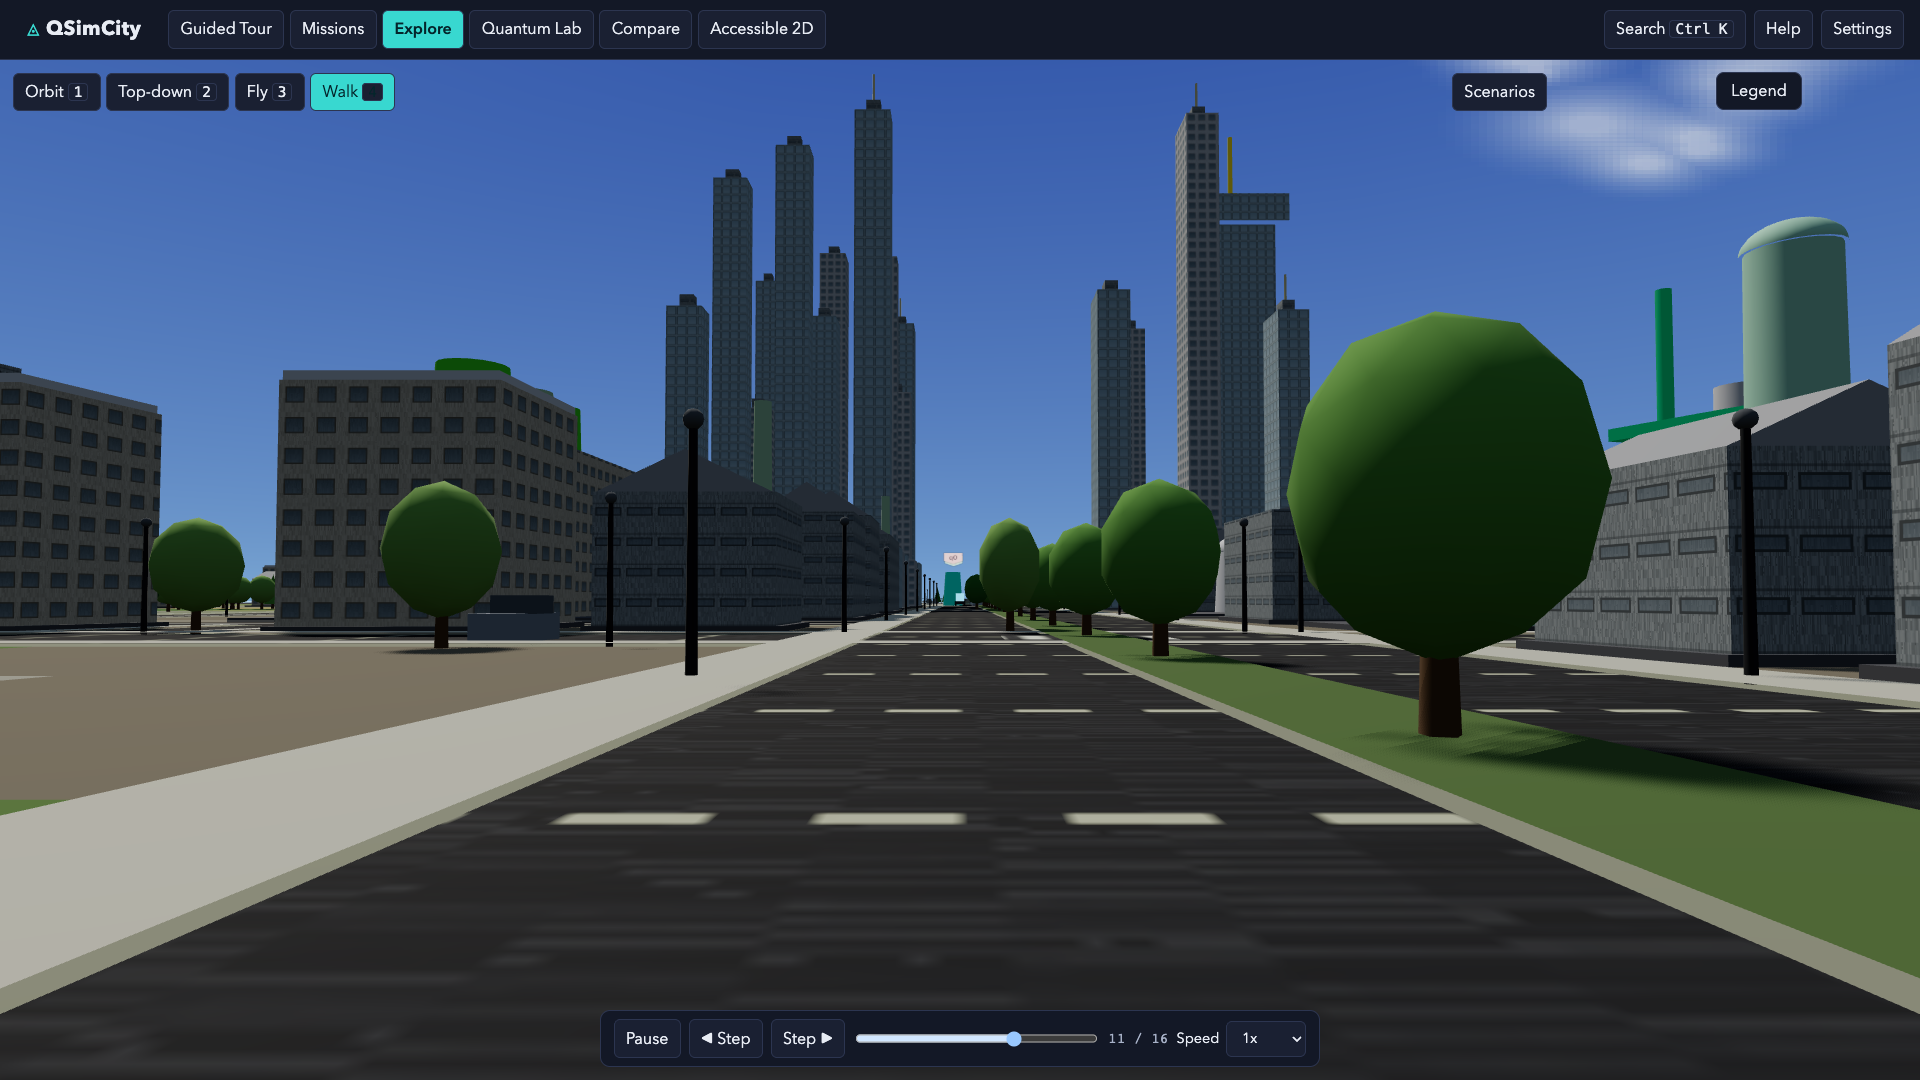
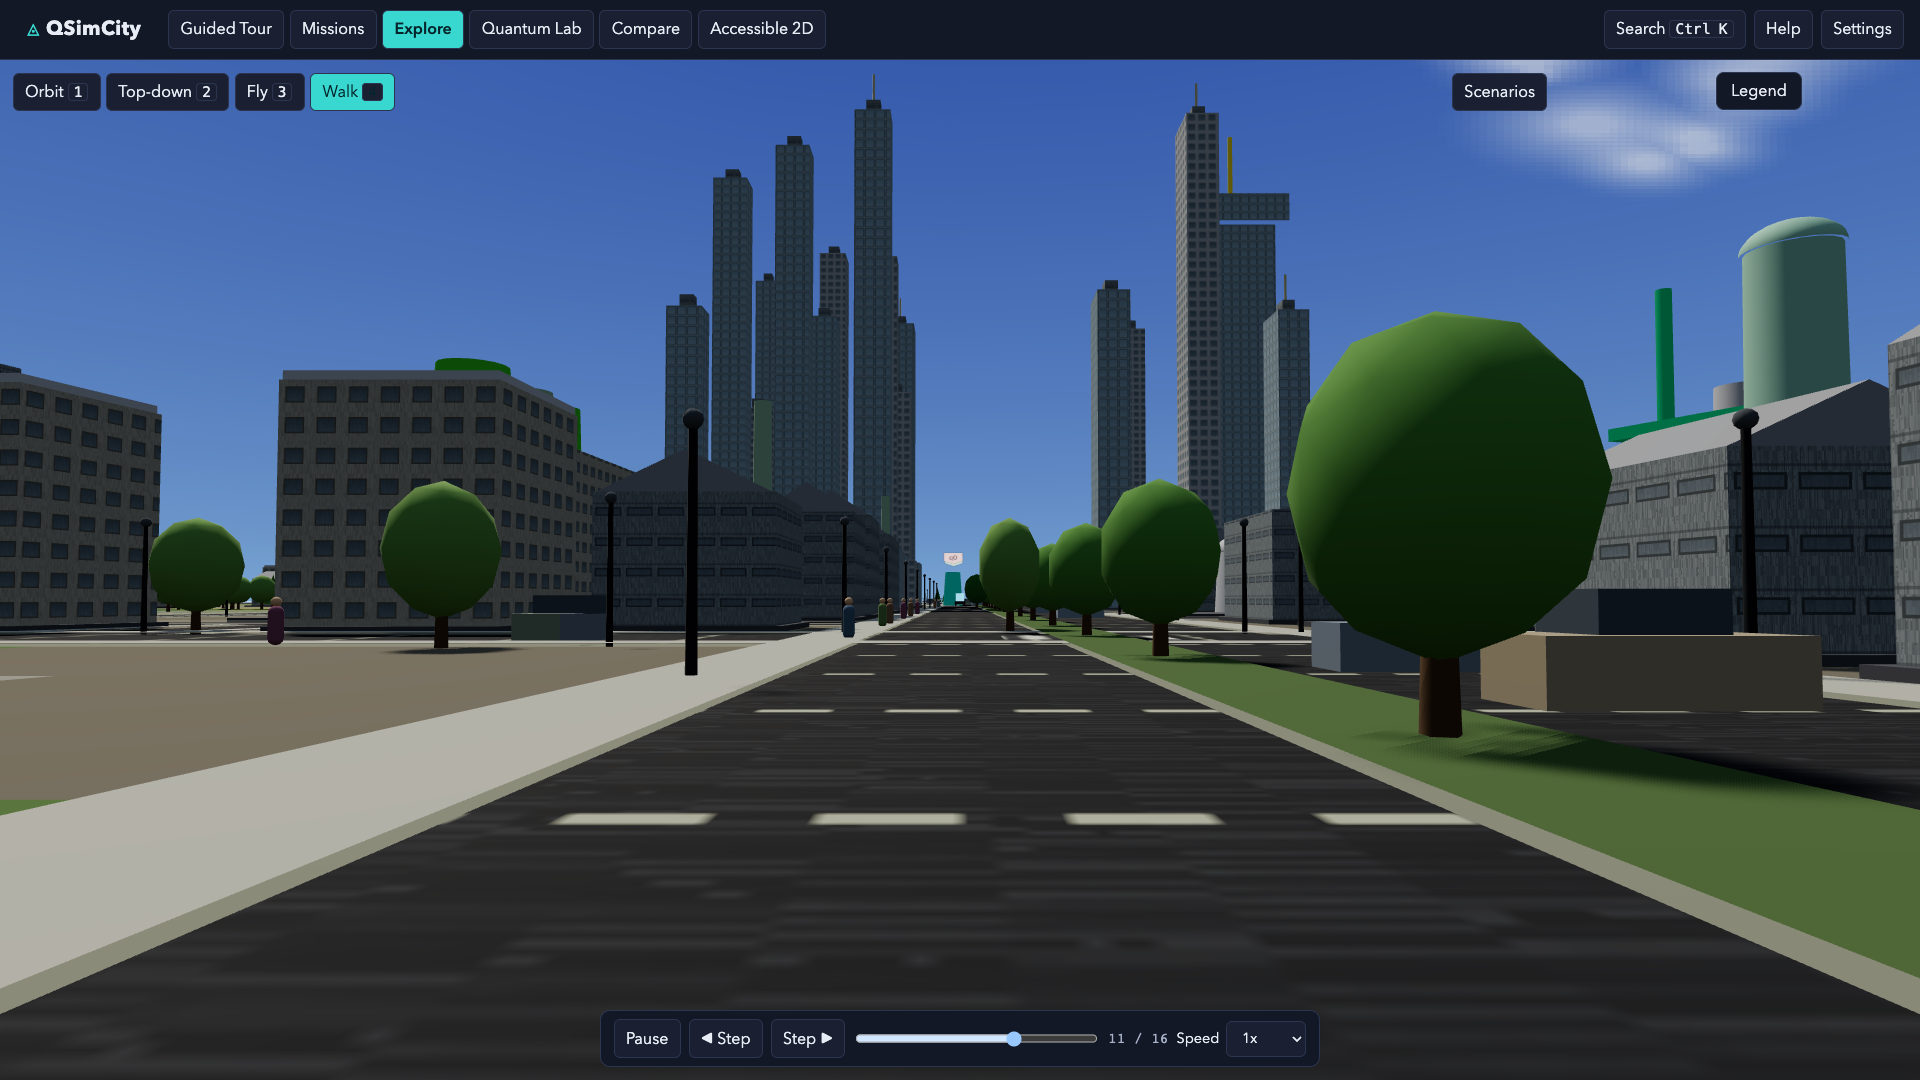
Fix the E2E harness running on software GL, and populate the streets
Two material defects the audit found.

The Playwright suite launched Chromium without GPU flags, so the 3D city
rendered through SwiftShader: measured p50 frame time 314 ms (about 3
fps) against 8 ms with the GPU enabled, which inflated every driver
interaction from ~76 ms to ~3.5 s. Under full-suite parallelism that
overran the 60 s test timeout and made the City Legend spec flaky — the
fresh-clone gate failed on it once during this audit despite the
committed evidence claiming a pass. Enabling the GPU for the Chromium
projects makes the suite deterministic (82/82 three runs in a row) and
four times faster (32 s versus two minutes), and it exercises the same
rendering path a real user gets.

Separately, none of the three ambient traffic loops touched Processing
Boulevard — the axis walk mode spawns on and the whole pipeline story
follows — so the most-viewed street in the product was empty by
construction. Two boulevard loops now carry traffic in both directions,
and a new sidewalk-stroller class paces the arterial pavements. Both are
deterministic, frozen under reduced motion, capped by instance capacity,
and listed in the City Legend as ILLUSTRATIVE with their own entry.

diff --git a/packages/world/src/agents.ts b/packages/world/src/agents.ts
@@ -209,6 +209,29 @@ const LOOP_SPECS: readonly { id: string; carCount: number; legs: readonly LoopLe
       { segmentId: 'ave-tower', from: [150, 95], to: [150, -26] },
     ],
   },
+  // Processing Boulevard is the axis the pipeline story runs along and the
+  // street walk mode spawns on, so it carries traffic in both directions:
+  // two loops whose boulevard legs overlap across the city centre.
+  {
+    id: 'blvd-west',
+    carCount: 14,
+    legs: [
+      { segmentId: 'blvd', from: [-132, 20], to: [44, 20] },
+      { segmentId: 'ave-transit', from: [44, 20], to: [44, -26] },
+      { segmentId: 'col-north', from: [44, -26], to: [-132, -26] },
+      { segmentId: 'ave-port', from: [-132, -26], to: [-132, 20] },
+    ],
+  },
+  {
+    id: 'blvd-east',
+    carCount: 14,
+    legs: [
+      { segmentId: 'blvd', from: [150, 20], to: [-14, 20] },
+      { segmentId: 'ave-exchange', from: [-14, 20], to: [-14, 95] },
+      { segmentId: 'col-south', from: [-14, 95], to: [150, 95] },
+      { segmentId: 'ave-tower', from: [150, 95], to: [150, 20] },
+    ],
+  },
 ];
 
 function buildLoop(spec: (typeof LOOP_SPECS)[number]): AmbientLoop {
@@ -403,6 +426,76 @@ export function pedestriansAt(
   }
   return pedestrians;
 }
+
+/**
+ * Sidewalk strollers: walkers that pace the arterial sidewalks so the
+ * streets a visitor actually walks down read as inhabited. Purely
+ * ILLUSTRATIVE — unlike district workers their number carries no signal at
+ * all, and like every ambient class they vanish under reduced motion.
+ *
+ * Deterministic in animTimeSeconds: each stroller owns a hashed phase and
+ * speed and shuttles along one side of one arterial, turning at the ends.
+ */
+export function strollersAt(animTimeSeconds: number, reducedMotion: boolean): PedestrianState[] {
+  if (reducedMotion) return [];
+  const strollers: PedestrianState[] = [];
+  for (const segment of ARTERIAL_SEGMENTS) {
+    const params = STROLLER_PARAMS[segment.id];
+    if (!params) continue;
+    const dx = segment.b.x - segment.a.x;
+    const dz = segment.b.z - segment.a.z;
+    const length = Math.hypot(dx, dz);
+    if (length < 1) continue;
+    const ux = dx / length;
+    const uz = dz / length;
+    // Walk the pavement just outside the carriageway, both sides.
+    const offset = segment.width / 2 + 2.2;
+    for (const walker of params) {
+      const side = walker.side;
+      const span = length - 12;
+      if (span <= 0) continue;
+      // Shuttle: a triangle wave along the segment, so walkers turn round
+      // at the ends instead of teleporting back to the start.
+      const cycle = 2 * span;
+      const travelled = (walker.phase * cycle + walker.speed * animTimeSeconds) % cycle;
+      const along = travelled <= span ? travelled : cycle - travelled;
+      const forward = travelled <= span ? 1 : -1;
+      const x = segment.a.x + ux * (6 + along) - uz * offset * side;
+      const z = segment.a.z + uz * (6 + along) + ux * offset * side;
+      strollers.push({
+        id: walker.id,
+        position: { x, z },
+        heading: Math.atan2(ux * forward, uz * forward),
+      });
+    }
+  }
+  return strollers;
+}
+
+/** Per-stroller constants, hashed once at module load (never per frame). */
+const STROLLER_PARAMS: Record<
+  string,
+  readonly { id: string; speed: number; phase: number; side: 1 | -1 }[]
+> = Object.fromEntries(
+  ARTERIAL_SEGMENTS.map((segment) => {
+    // The boulevard is the axis visitors walk, so it gets the most life;
+    // other arterials get a token few. Counts are fixed, never random.
+    const perSide = segment.id === 'blvd' ? 20 : segment.id.startsWith('col-') ? 6 : 3;
+    const walkers: { id: string; speed: number; phase: number; side: 1 | -1 }[] = [];
+    for (const side of [1, -1] as const) {
+      for (let i = 0; i < perSide; i++) {
+        const seed = `stroll:${segment.id}:${side}:${i}`;
+        walkers.push({
+          id: seed,
+          speed: 1.0 + 0.6 * hash01(`${seed}:speed`),
+          phase: hash01(`${seed}:phase`),
+          side,
+        });
+      }
+    }
+    return [segment.id, walkers];
+  }),
+);
 
 // Per-walker constants, hashed once instead of on every animation frame.
 const pedestrianParamCache = new Map<string, { id: string; speed: number; phase: number }>();

diff --git a/packages/world/test/agents.test.ts b/packages/world/test/agents.test.ts
@@ -6,6 +6,7 @@ import {
   couriersAt,
   districtActivityAt,
   pedestriansAt,
+  strollersAt,
   COURIER_JOURNEY_TICKS,
 } from '../src/agents.js';
 import { LANDMARK_SITES } from '../src/landmarks.js';
@@ -222,10 +223,11 @@ describe('ambient traffic (W3.3)', () => {
     expect(ambientVehiclesAt(12, true)).toEqual([]);
   });
 
-  it('keeps about 20 cars inside arterial road corridors at all times', () => {
+  it('keeps every ambient car inside arterial road corridors at all times', () => {
     for (const time of [0, 3.7, 42, 999.5]) {
       const cars = ambientVehiclesAt(time, false);
-      expect(cars).toHaveLength(20);
+      // Five loops: three interior rings plus both boulevard directions.
+      expect(cars).toHaveLength(48);
       for (const car of cars) {
         expect(car.kind).toBe('ambient-car');
         expect(withinSomeCorridor(car.position), `car ${car.id} at t=${time}`).toBe(true);
@@ -308,5 +310,44 @@ describe('pedestrians and district activity (W3.3)', () => {
     expect(pedestriansAt(trace, 1, 2.5, false)).toEqual(pedestriansAt(trace, 1, 2.5, false));
     expect(pedestriansAt(trace, 1, 2.5, true)).toEqual([]);
     expect(pedestriansAt(null, 1, 2.5, false)).toEqual([]);
+  });
+});
+
+describe('sidewalk strollers (W3.3)', () => {
+  it('populates every arterial pavement deterministically and pauses under reduced motion', () => {
+    const a = strollersAt(4.25, false);
+    const b = strollersAt(4.25, false);
+    expect(a.length).toBeGreaterThan(40);
+    expect(a).toEqual(b);
+    expect(strollersAt(4.25, true)).toEqual([]);
+  });
+
+  it('walks the boulevard pavements, clear of the carriageway', () => {
+    const blvd = ARTERIAL_SEGMENTS.find((s) => s.id === 'blvd')!;
+    const onBoulevard = strollersAt(6, false).filter((s) => s.id.startsWith('stroll:blvd:'));
+    expect(onBoulevard.length).toBeGreaterThanOrEqual(10);
+    for (const walker of onBoulevard) {
+      const offset = Math.abs(walker.position.z - blvd.a.z);
+      // Outside the carriageway, but still on the street, not in a block.
+      expect(offset, walker.id).toBeGreaterThan(blvd.width / 2);
+      expect(offset, walker.id).toBeLessThan(blvd.width / 2 + 6);
+      expect(walker.position.x).toBeGreaterThanOrEqual(Math.min(blvd.a.x, blvd.b.x));
+      expect(walker.position.x).toBeLessThanOrEqual(Math.max(blvd.a.x, blvd.b.x));
+    }
+  });
+
+  it('keeps walkers moving and turns them at the ends instead of teleporting', () => {
+    const t0 = strollersAt(0, false);
+    const t1 = strollersAt(1.5, false);
+    const byId = new Map(t1.map((s) => [s.id, s]));
+    for (const before of t0) {
+      const after = byId.get(before.id)!;
+      const step = Math.hypot(
+        after.position.x - before.position.x,
+        after.position.z - before.position.z,
+      );
+      // A 1.5 s step at walking pace: never a jump across the segment.
+      expect(step, before.id).toBeLessThan(6);
+    }
   });
 });

diff --git a/playwright.config.ts b/playwright.config.ts
@@ -4,6 +4,18 @@ import { defineConfig, devices } from '@playwright/test';
  * E2E configuration (spec §18.5): Chromium/Firefox/WebKit smoke matrix,
  * Chromium-based visual regression and PWA checks, mobile viewports.
  */
+
+/**
+ * Chromium renders WebGL through SwiftShader unless the GPU is explicitly
+ * enabled. Measured on this build, software rasterization puts the 3D city
+ * at a p50 frame time of 314 ms (about 3 fps), and every driver interaction
+ * inherits that: a single `click()` on the city view costs ~3.5 s of
+ * actionability protocol instead of ~76 ms. Under full-suite parallelism
+ * that inflation intermittently overran the 60 s test timeout, which is
+ * what made the City Legend spec flaky. Enabling the GPU makes the suite
+ * both deterministic and representative of what a user actually runs.
+ */
+const GPU_ARGS = ['--enable-gpu', '--ignore-gpu-blocklist', '--enable-webgl'];
 export default defineConfig({
   testDir: 'tests/e2e',
   timeout: 60_000,
@@ -32,7 +44,7 @@ export default defineConfig({
   projects: [
     {
       name: 'chromium',
-      use: { ...devices['Desktop Chrome'] },
+      use: { ...devices['Desktop Chrome'], launchOptions: { args: GPU_ARGS } },
       testIgnore: ['**/mobile.spec.ts'],
     },
     {
@@ -47,7 +59,7 @@ export default defineConfig({
     },
     {
       name: 'mobile',
-      use: { ...devices['Pixel 7'] },
+      use: { ...devices['Pixel 7'], launchOptions: { args: GPU_ARGS } },
       testMatch: ['**/mobile.spec.ts', '**/visual.spec.ts'],
     },
   ],

diff --git a/packages/visual-engine/src/engine.ts b/packages/visual-engine/src/engine.ts
@@ -13,6 +13,7 @@ import {
   INTERACTIVES,
   LANDMARK_SITES,
   pedestriansAt,
+  strollersAt,
   physicalToLogicalAt,
   qpuPylonPositions,
   terrainHeight,
@@ -411,10 +412,16 @@ export class CityEngine {
     // Vehicles: ambient traffic and pedestrians animate per frame; the
     // convoy chases its semantic target smoothly.
     this.animTime += dt;
+    // District workers (density follows activity) and arterial sidewalk
+    // strollers (pure ambience) share one instanced walker fleet: same
+    // geometry, one draw call, both listed separately in the City Legend.
     this.vehicles.update(
       dt,
       ambientVehiclesAt(this.animTime, this.reducedMotion),
-      pedestriansAt(this.trace, this.playbackTick, this.animTime, this.reducedMotion),
+      [
+        ...pedestriansAt(this.trace, this.playbackTick, this.animTime, this.reducedMotion),
+        ...strollersAt(this.animTime, this.reducedMotion),
+      ],
       this.reducedMotion,
     );
 

diff --git a/packages/ui/src/content/legend.ts b/packages/ui/src/content/legend.ts
@@ -156,6 +156,18 @@ export const LEGEND_ENTRIES: readonly LegendEntry[] = [
     certainty: 'ILLUSTRATIVE',
   },
   {
+    id: 'sidewalk-stroller',
+    name: 'Sidewalk strollers',
+    represents:
+      'People walking the pavements of the main roads so the streets you can walk down read as inhabited. Their number carries no signal whatsoever.',
+    childRepresents: 'People out walking. They are just going about their day.',
+    trigger:
+      'Fixed walkers pacing each arterial pavement on deterministic paths; frozen entirely when reduced motion is on.',
+    childTrigger: 'They walk up and down the street all day.',
+    source: 'illustrative',
+    certainty: 'ILLUSTRATIVE',
+  },
+  {
     id: 'district-pulse',
     name: 'District pulse rings',
     represents: 'A momentary highlight helping the eye find the district that just became active.',

diff --git a/packages/ui/test/legend.test.tsx b/packages/ui/test/legend.test.tsx
@@ -23,6 +23,7 @@ describe('city legend content', () => {
       'noise-weather',
       'noise-rain',
       'ambient-car',
+      'sidewalk-stroller',
       'pedestrian',
       'district-pulse',
       'city-ambience',
@@ -82,7 +83,13 @@ describe('city legend content', () => {
   });
 
   it('classifies purely decorative motion as ILLUSTRATIVE', () => {
-    for (const id of ['ambient-car', 'pedestrian', 'district-pulse', 'city-ambience']) {
+    for (const id of [
+      'ambient-car',
+      'sidewalk-stroller',
+      'pedestrian',
+      'district-pulse',
+      'city-ambience',
+    ]) {
       const entry = LEGEND_ENTRIES.find((e) => e.id === id)!;
       expect(entry.certainty, id).toBe('ILLUSTRATIVE');
     }

diff --git a/packages/visual-engine/src/vehicles.ts b/packages/visual-engine/src/vehicles.ts
@@ -9,9 +9,12 @@ import type { TimeOfDay } from './sky.js';
  * @qsimcity/world — this module only draws states, it never invents them.
  */
 
-const AMBIENT_CAPACITY = 24;
+// Five ambient loops (36 cars) plus headroom; instanced, so the cost is
+// per-instance transform work, not extra draw calls.
+const AMBIENT_CAPACITY = 56;
 const COURIER_CAPACITY = 16;
-const PEDESTRIAN_CAPACITY = 96;
+// District workers (activity-driven) plus arterial sidewalk strollers.
+const PEDESTRIAN_CAPACITY = 224;
 
 // Kept well above mid-grey with low metalness: a moving car photographed in
 // building shade must still read as a car, not an untextured black box

diff --git a/packages/visual-engine/test/vehicles.test.ts b/packages/visual-engine/test/vehicles.test.ts
@@ -90,7 +90,7 @@ describe('buildVehicles', () => {
     const crowd = Array.from({ length: 300 }, (_, i) => walker(`w${i}`, i, 0));
     expect(() => fleet.update(0.016, many, crowd, false)).not.toThrow();
     const ambient = fleet.group.getObjectByName('ambient-car-bodies') as THREE.InstancedMesh;
-    expect(ambient.count).toBeLessThanOrEqual(24);
+    expect(ambient.count).toBeLessThanOrEqual(56);
     fleet.dispose();
   });
 });

diff --git a/packages/world/src/index.ts b/packages/world/src/index.ts
@@ -36,6 +36,7 @@ export {
   couriersAt,
   districtActivityAt,
   pedestriansAt,
+  strollersAt,
   COURIER_JOURNEY_TICKS,
   type PedestrianState,
   type VehicleState,
